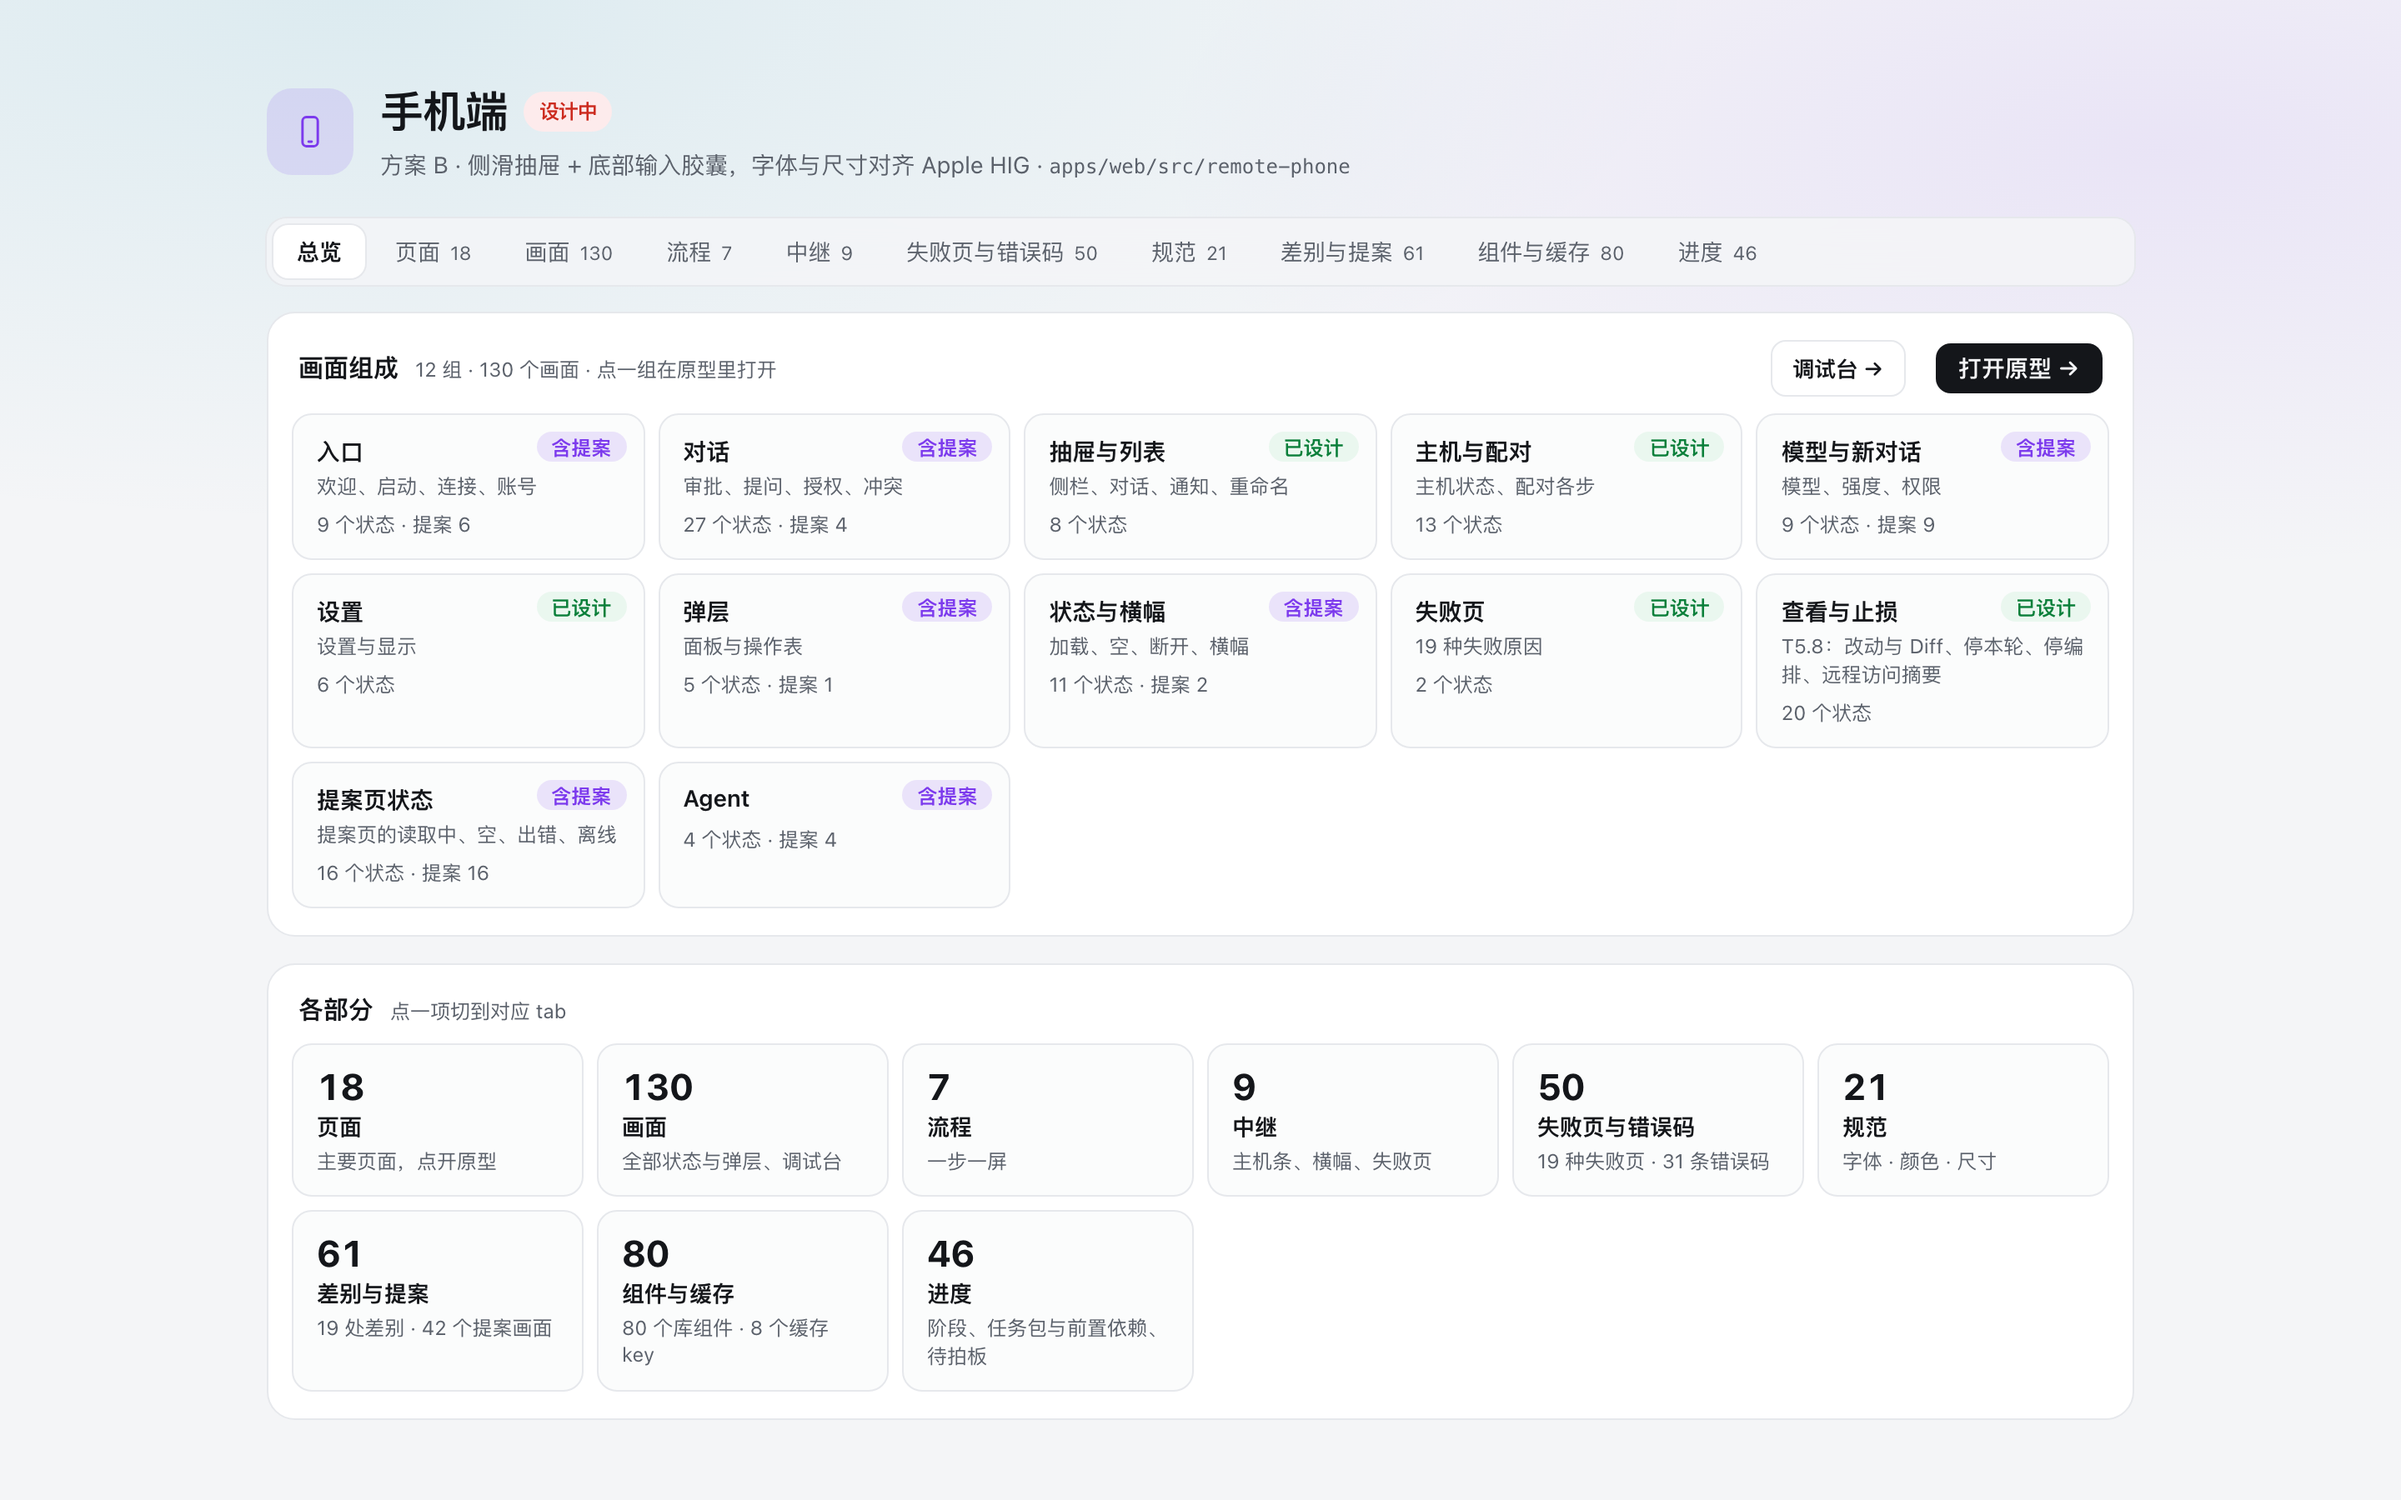
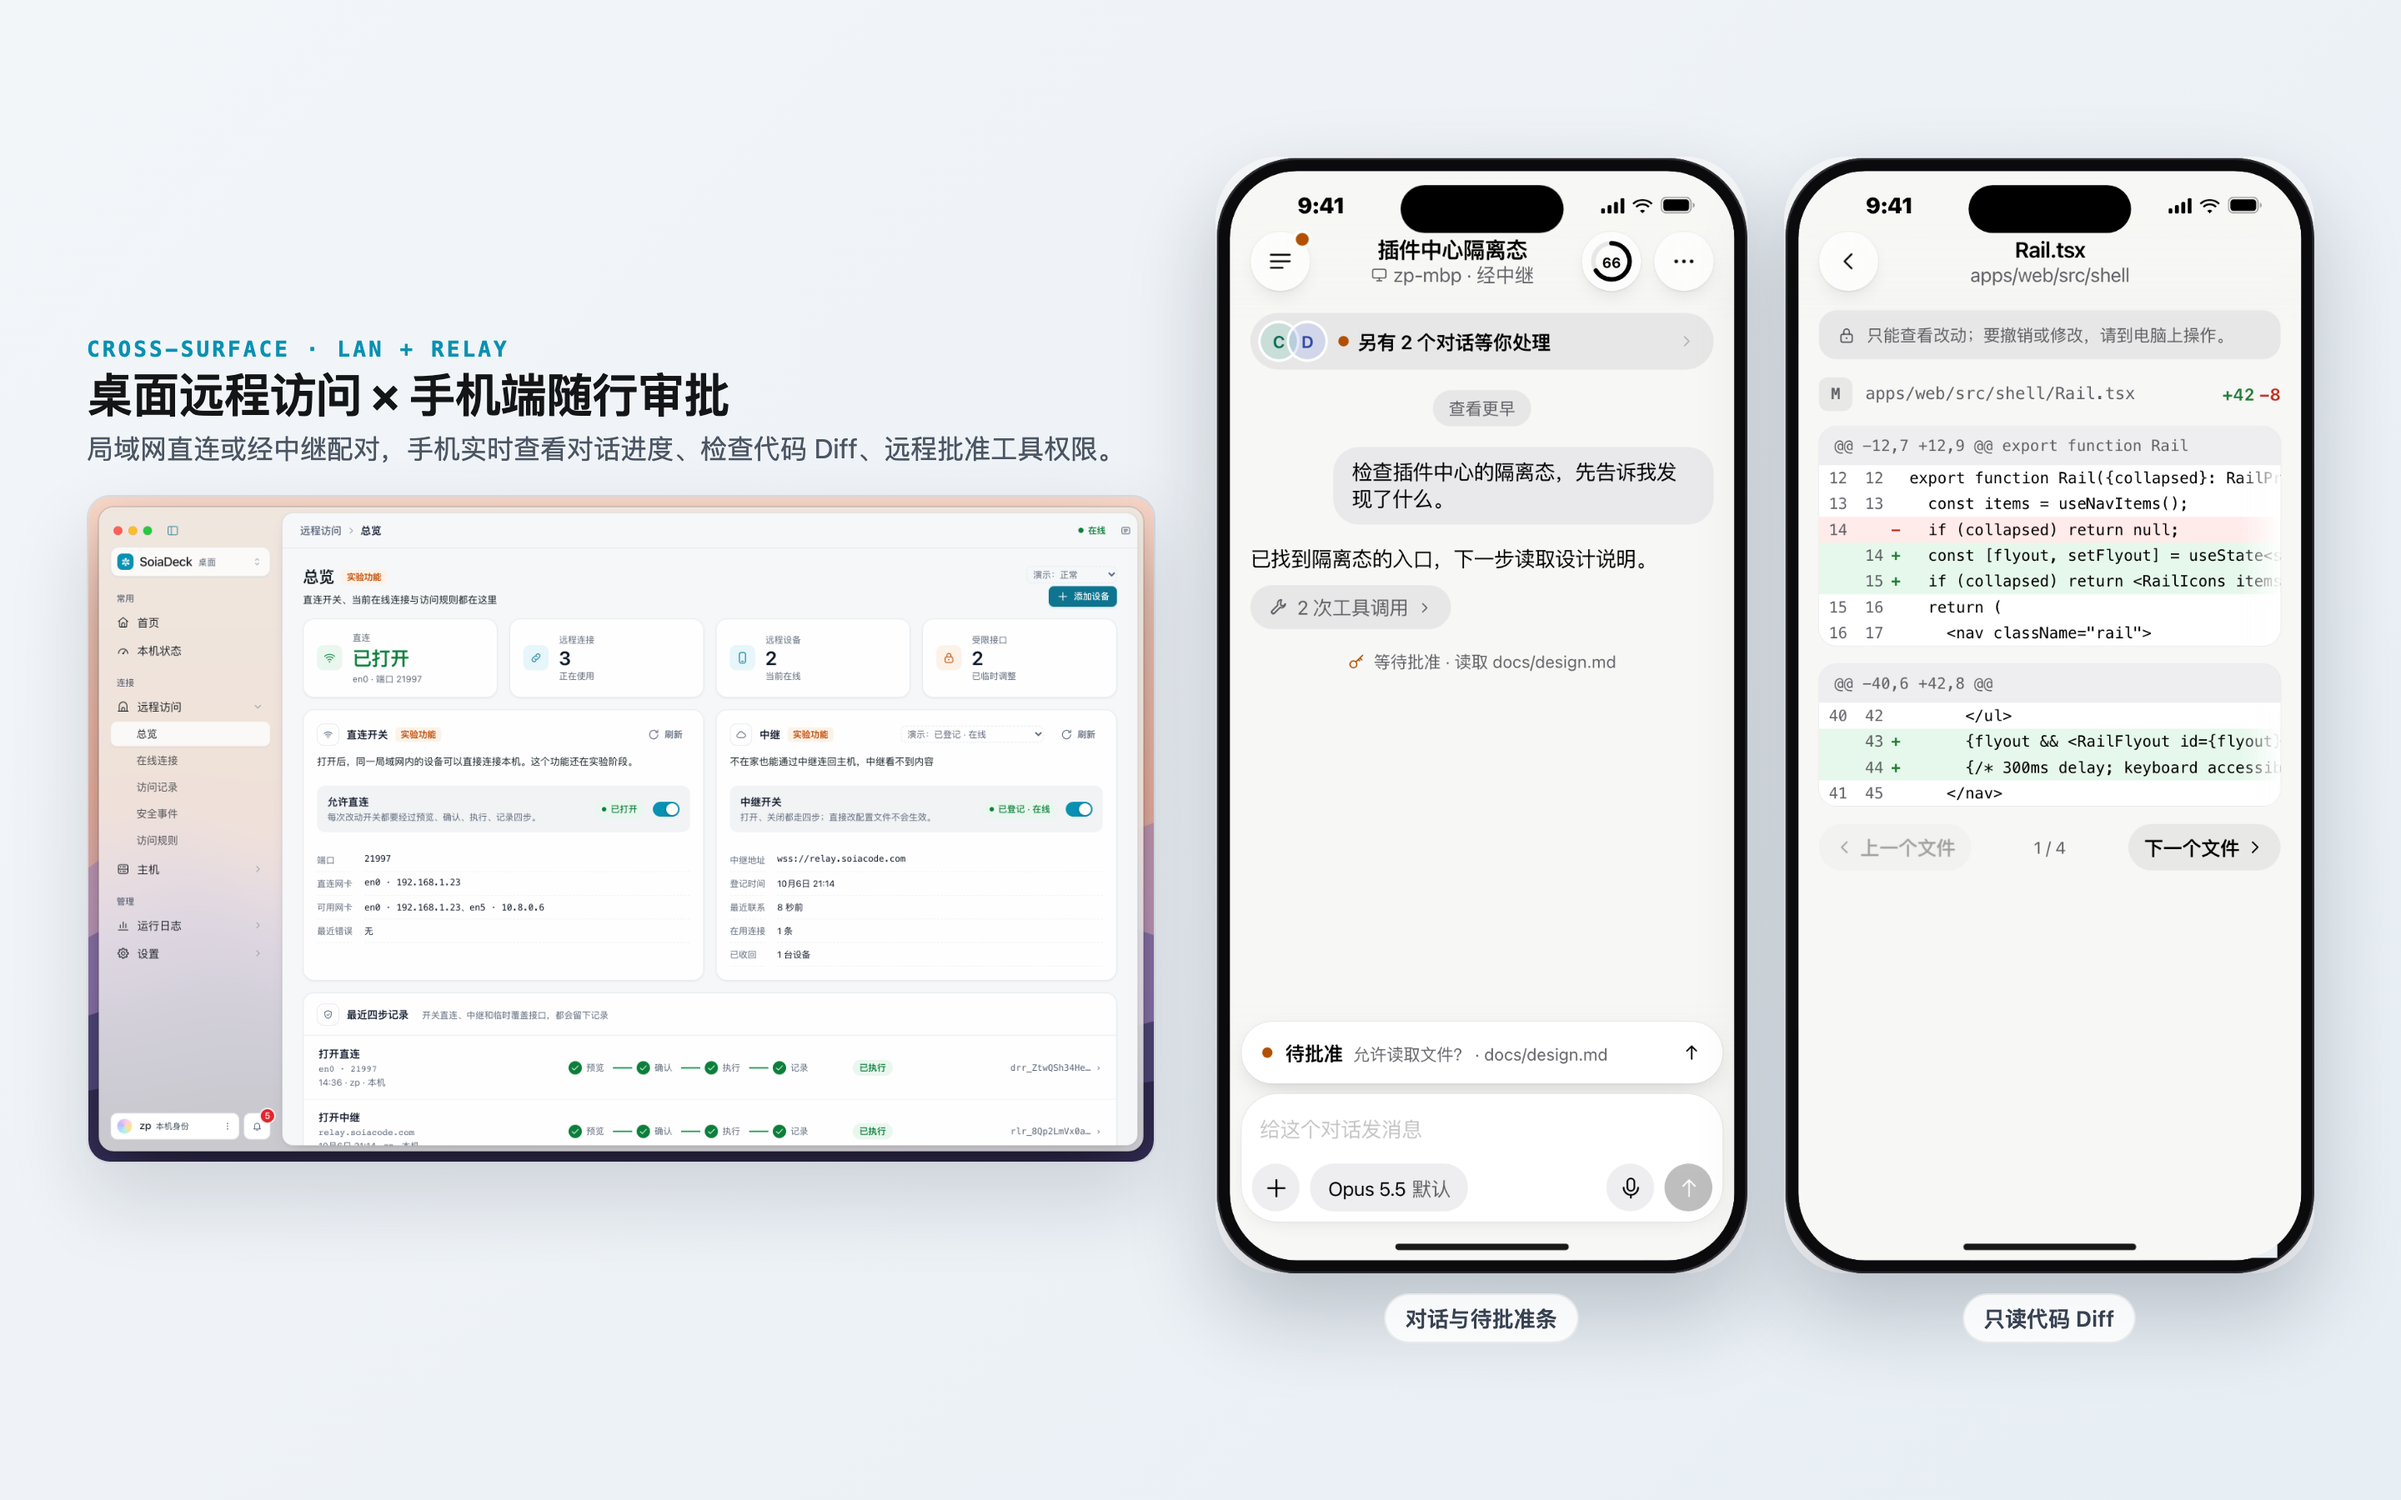
assets: use phone prototype screens and 19-agent matrix on SoiaDeck page

diff --git a/src/soia-pages.tsx b/src/soia-pages.tsx
@@ -270,7 +270,7 @@ export function SoiaDeckPage({ locale }: { locale: LandingLocaleCode }) {
         { id: 'models', title: '本地 LLM', body: '发现、启停、下载本机模型，并提供一个 OpenAI 兼容入口。现在推理引擎以 MLX 系为主，所以本地模型在 Apple Silicon 上最完整。作业台本身不依赖本地模型。', image: '/soia/products/soiadeck-router.png', alt: 'SoiaDeck 本地 LLM 模型转发' },
         { id: 'network', title: 'AI 网络', body: '本机访问各 AI 服务走哪张网卡、连不连得通。核心管理能力断网可用。', image: '/soia/products/soiadeck-net.png', alt: 'SoiaDeck AI 网络监控' },
         { id: 'remote', title: '远程访问与手机端', body: '电脑开启远程访问或通过中继配对后，手机端可随时查看对话进度、看代码改动与 Diff，并在手机上远程审批权限或止损停轮。', image: '/soia/products/soiadeck-phone.png', alt: 'SoiaDeck 手机端远程访问与设计总览' },
-        { id: 'agents', title: '已接 19 个 coding agent', body: '包括 Claude Code、Codex、Cursor、Gemini CLI、Pi、OpenCode、Copilot、Qwen、Kimi、Kiro、Trae、Grok、Antigravity 等。清单以 SoiaDeck 的 agent-manifest-index 为准。', image: '/soia/products/soiadeck-agent.png', alt: 'SoiaDeck 已接入的 Coding Agent 管理' },
+        { id: 'agents', title: '已接 19 个 coding agent', body: '包括 Claude Code、Codex、Cursor、Gemini CLI、Pi、OpenCode、Copilot、Qwen、Kimi、Kiro、Trae、Grok、Antigravity 等。清单以 SoiaDeck 的 agent-manifest-index 为准。', image: '/soia/products/soiadeck-19-agents.png', alt: 'SoiaDeck 已接入 19 个 Coding Agent 矩阵' },
         { id: 'open', title: '即将开源', body: '现在是私有仓，持续开发中。目前只发 macOS arm64 安装包；Linux / Windows 有构建入口，但没验收、不发包。官网不假装已有公开下载。' },
       ]
     : [
@@ -280,7 +280,7 @@ export function SoiaDeckPage({ locale }: { locale: LandingLocaleCode }) {
         { id: 'models', title: 'Local LLM', body: 'Discover, start/stop and download local models, plus one OpenAI-compatible endpoint. Engines today are mostly MLX, so local models are most complete on Apple Silicon.', image: '/soia/products/soiadeck-router.png', alt: 'SoiaDeck Local LLM router' },
         { id: 'network', title: 'AI Network', body: 'Which network interface the machine uses to reach AI services, and whether they are reachable. Core management still works offline.', image: '/soia/products/soiadeck-net.png', alt: 'SoiaDeck AI Network' },
         { id: 'remote', title: 'Remote & Mobile', body: 'Pair your phone over local LAN or relay to follow running sessions, inspect diffs, approve tool permissions, or stop a turn on the go.', image: '/soia/products/soiadeck-phone.png', alt: 'SoiaDeck mobile surface' },
-        { id: 'agents', title: '19 coding agents', body: 'Including Claude Code, Codex, Cursor, Gemini CLI, Pi, OpenCode, Copilot, Qwen, Kimi, Kiro, Trae, Grok and Antigravity.', image: '/soia/products/soiadeck-agent.png', alt: 'SoiaDeck agent management' },
+        { id: 'agents', title: '19 coding agents', body: 'Including Claude Code, Codex, Cursor, Gemini CLI, Pi, OpenCode, Copilot, Qwen, Kimi, Kiro, Trae, Grok and Antigravity.', image: '/soia/products/soiadeck-19-agents.png', alt: 'SoiaDeck 19 coding agents' },
         { id: 'open', title: 'Coming open source', body: 'Private today, under active development. Only macOS arm64 installers ship; Linux and Windows have build entry points but are not released.' },
       ];
   return (
